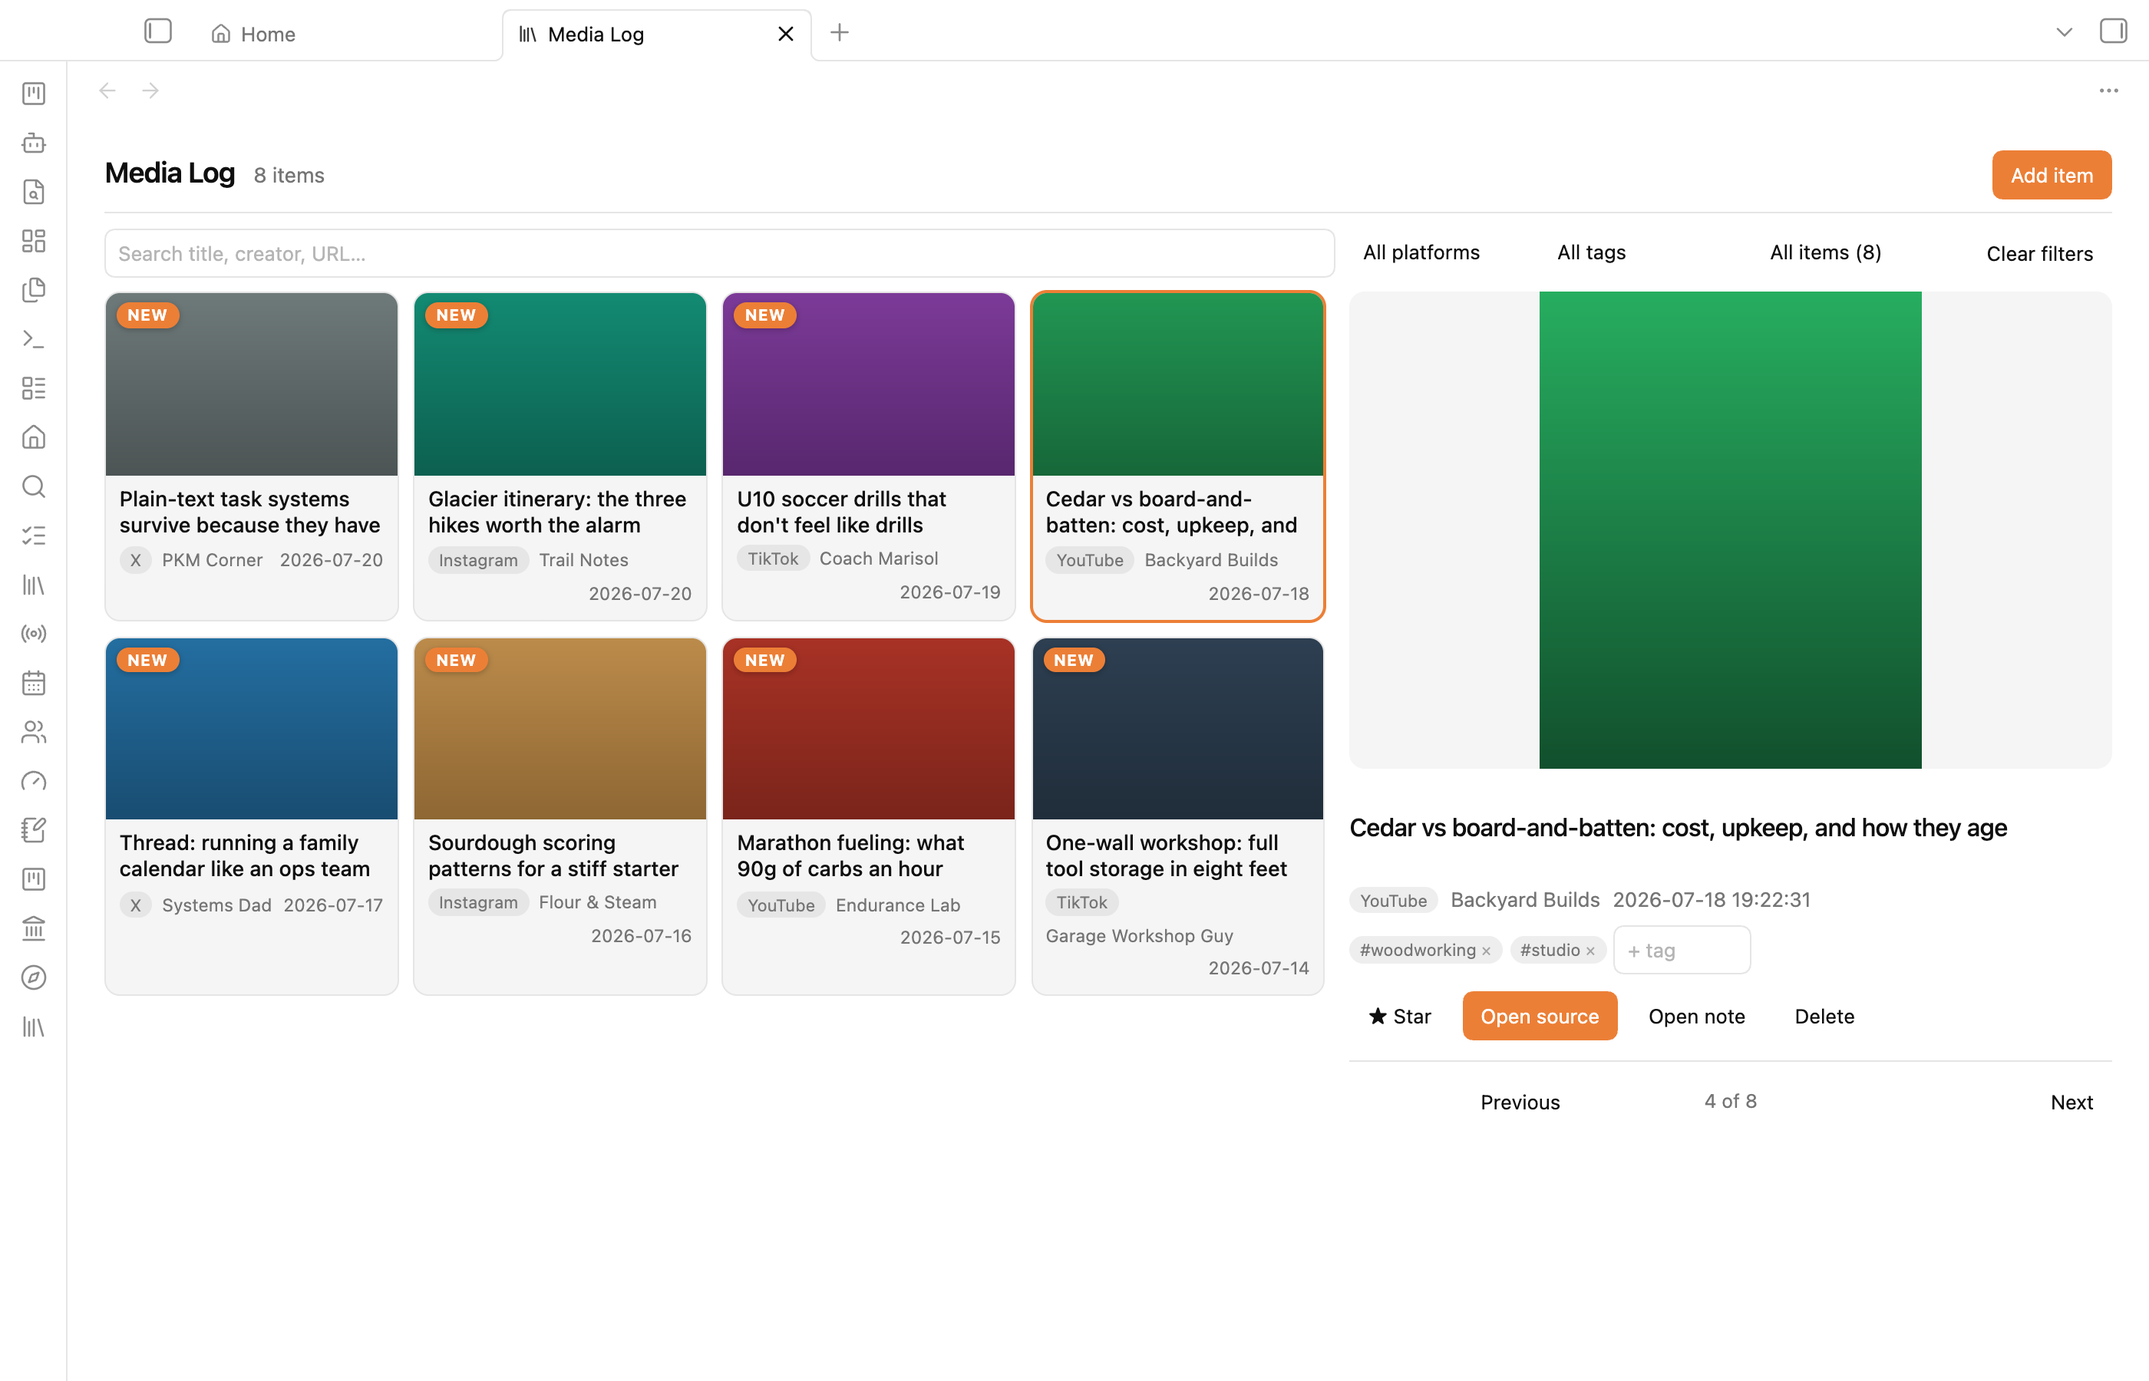
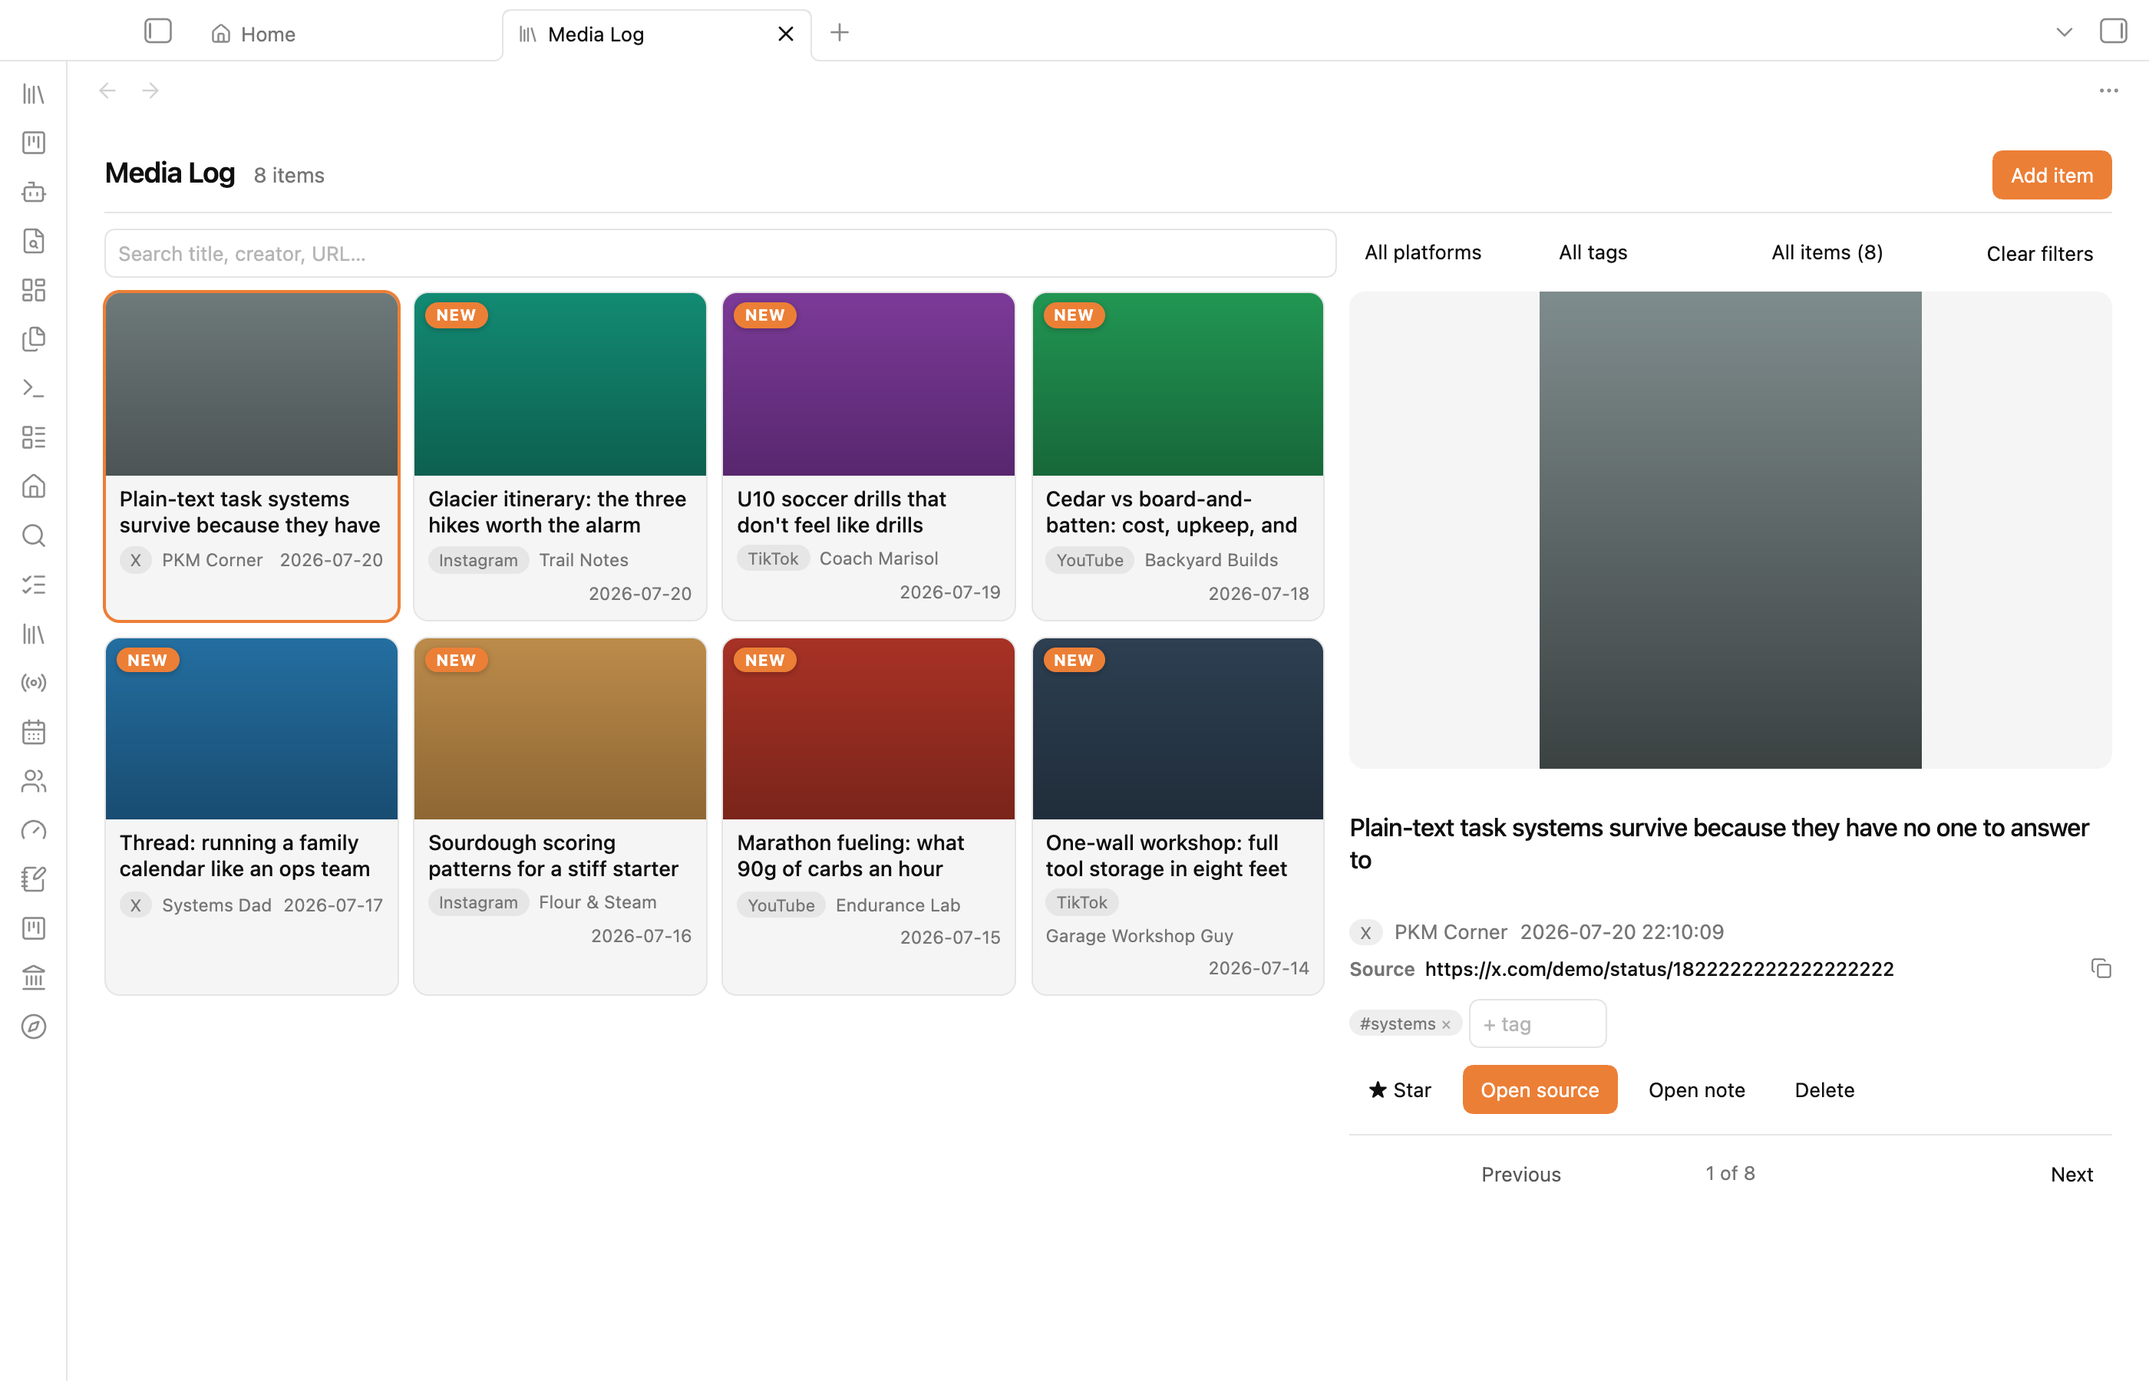
Media Log 1.4.0: copyable gallery text and links

diff --git a/main.js b/main.js
@@ -6,6 +6,7 @@ var {
   Setting,
   Modal,
   Notice,
+  setIcon,
   requestUrl,
   normalizePath
 } = require("obsidian");
@@ -80,6 +81,12 @@ function extractMeta(html) {
   ]);
   return meta;
 }
+function hasTextSelectionWithin(element) {
+  const selection = typeof window !== "undefined" && window.getSelection ? window.getSelection() : null;
+  if (!selection || selection.isCollapsed || !selection.toString().trim()) return false;
+  const node = selection.anchorNode || selection.focusNode;
+  return Boolean(node && element.contains(node));
+}
 module.exports = class MediaLogPlugin extends Plugin {
   async onload() {
     await this.loadSettings();
@@ -135,6 +142,7 @@ module.exports = class MediaLogPlugin extends Plugin {
         title: fm.title || file.basename,
         creator: fm.creator || "",
         sourceUrl: fm.source_url || "",
+        canonicalUrl: fm.canonical_url || "",
         capturedAt,
         sortKey,
         screenshot: fm.screenshot || "",
@@ -345,7 +353,10 @@ var LibraryView = class extends ItemView {
       return;
     }
     for (const item of list.slice(0, 200)) {
-      const card = grid.createDiv({ cls: ["mlog-card", this.selected?.id === item.id ? "mlog-card--selected" : ""] });
+      const card = grid.createDiv({
+        cls: ["mlog-card", this.selected?.id === item.id ? "mlog-card--selected" : ""],
+        attr: { role: "button", tabindex: "0" }
+      });
       const thumb = card.createDiv({ cls: "mlog-card__thumb" });
       const shot = item.screenshot && this.app.vault.getAbstractFileByPath(item.screenshot);
       if (shot) {
@@ -361,7 +372,16 @@ var LibraryView = class extends ItemView {
       metaRow.createSpan({ cls: "mlog-chip", text: item.platform });
       if (item.creator) metaRow.createSpan({ text: item.creator });
       metaRow.createSpan({ cls: "mlog-card__date", text: String(item.capturedAt).slice(0, 10) });
-      card.addEventListener("click", () => this.selectItem(item));
+      const activate = () => this.selectItem(item);
+      card.addEventListener("click", () => {
+        if (hasTextSelectionWithin(card)) return;
+        activate();
+      });
+      card.addEventListener("keydown", (event) => {
+        if (event.target !== card || event.key !== "Enter" && event.key !== " ") return;
+        event.preventDefault();
+        activate();
+      });
     }
     if (list.length > 200) {
       grid.createDiv({ cls: "mlog__empty-sub", text: `Showing 200 of ${list.length} \u2014 narrow the filters.` });
@@ -381,6 +401,9 @@ var LibraryView = class extends ItemView {
     meta.createSpan({ cls: "mlog-chip", text: item.platform });
     if (item.creator) meta.createSpan({ text: item.creator });
     if (item.capturedAt) meta.createSpan({ text: item.capturedAt });
+    const links = d.createDiv({ cls: "mlog-detail__links" });
+    this.renderCopyableLink(links, "Source", item.sourceUrl);
+    if (item.canonicalUrl) this.renderCopyableLink(links, "Canonical", item.canonicalUrl);
     const tagWrap = d.createDiv({ cls: "mlog-detail__tags" });
     const renderTags = () => {
       tagWrap.empty();
@@ -443,6 +466,31 @@ var LibraryView = class extends ItemView {
     const next = nav.createEl("button", { text: "Next" });
     next.disabled = completedUnwatchedItem ? visible.length === 0 : index < 0 || index >= visible.length - 1;
     next.addEventListener("click", () => this.selectItem(completedUnwatchedItem ? visible[0] : visible[index + 1]));
+  }
+  renderCopyableLink(container, label, value) {
+    if (!value) return;
+    const row = container.createDiv({ cls: "mlog-detail__link" });
+    row.createSpan({ cls: "mlog-detail__link-label", text: label });
+    row.createEl("strong", { text: value });
+    const copy = row.createSpan({
+      cls: "mlog-detail__copy",
+      attr: { role: "button", tabindex: "0", "aria-label": `Copy ${label.toLowerCase()} link` }
+    });
+    setIcon(copy, "copy");
+    const doCopy = async () => {
+      try {
+        await navigator.clipboard.writeText(value);
+        new Notice(`${label} link copied`);
+      } catch (error) {
+        new Notice(`Copy failed: ${error.message || error}`);
+      }
+    };
+    copy.addEventListener("click", doCopy);
+    copy.addEventListener("keydown", (event) => {
+      if (event.key !== "Enter" && event.key !== " ") return;
+      event.preventDefault();
+      doCopy();
+    });
   }
   renderMedia(container, item) {
     const shot = item.screenshot && this.app.vault.getAbstractFileByPath(item.screenshot);

diff --git a/src/main.js b/src/main.js
@@ -10,6 +10,7 @@ const {
   Setting,
   Modal,
   Notice,
+  setIcon,
   requestUrl,
   normalizePath,
 } = require("obsidian");
@@ -104,6 +105,13 @@ function extractMeta(html) {
   return meta;
 }
 
+function hasTextSelectionWithin(element) {
+  const selection = typeof window !== "undefined" && window.getSelection ? window.getSelection() : null;
+  if (!selection || selection.isCollapsed || !selection.toString().trim()) return false;
+  const node = selection.anchorNode || selection.focusNode;
+  return Boolean(node && element.contains(node));
+}
+
 module.exports = class MediaLogPlugin extends Plugin {
   async onload() {
     await this.loadSettings();
@@ -168,6 +176,7 @@ module.exports = class MediaLogPlugin extends Plugin {
         title: fm.title || file.basename,
         creator: fm.creator || "",
         sourceUrl: fm.source_url || "",
+        canonicalUrl: fm.canonical_url || "",
         capturedAt,
         sortKey,
         screenshot: fm.screenshot || "",
@@ -396,7 +405,10 @@ class LibraryView extends ItemView {
       return;
     }
     for (const item of list.slice(0, 200)) {
-      const card = grid.createDiv({ cls: ["mlog-card", this.selected?.id === item.id ? "mlog-card--selected" : ""] });
+      const card = grid.createDiv({
+        cls: ["mlog-card", this.selected?.id === item.id ? "mlog-card--selected" : ""],
+        attr: { role: "button", tabindex: "0" },
+      });
       const thumb = card.createDiv({ cls: "mlog-card__thumb" });
       const shot = item.screenshot && this.app.vault.getAbstractFileByPath(item.screenshot);
       if (shot) {
@@ -412,7 +424,16 @@ class LibraryView extends ItemView {
       metaRow.createSpan({ cls: "mlog-chip", text: item.platform });
       if (item.creator) metaRow.createSpan({ text: item.creator });
       metaRow.createSpan({ cls: "mlog-card__date", text: String(item.capturedAt).slice(0, 10) });
-      card.addEventListener("click", () => this.selectItem(item));
+      const activate = () => this.selectItem(item);
+      card.addEventListener("click", () => {
+        if (hasTextSelectionWithin(card)) return;
+        activate();
+      });
+      card.addEventListener("keydown", (event) => {
+        if (event.target !== card || (event.key !== "Enter" && event.key !== " ")) return;
+        event.preventDefault();
+        activate();
+      });
     }
     if (list.length > 200) {
       grid.createDiv({ cls: "mlog__empty-sub", text: `Showing 200 of ${list.length} — narrow the filters.` });
@@ -433,6 +454,10 @@ class LibraryView extends ItemView {
     meta.createSpan({ cls: "mlog-chip", text: item.platform });
     if (item.creator) meta.createSpan({ text: item.creator });
     if (item.capturedAt) meta.createSpan({ text: item.capturedAt });
+
+    const links = d.createDiv({ cls: "mlog-detail__links" });
+    this.renderCopyableLink(links, "Source", item.sourceUrl);
+    if (item.canonicalUrl) this.renderCopyableLink(links, "Canonical", item.canonicalUrl);
 
     // Tags (editable)
     const tagWrap = d.createDiv({ cls: "mlog-detail__tags" });
@@ -502,6 +527,32 @@ class LibraryView extends ItemView {
     const next = nav.createEl("button", { text: "Next" });
     next.disabled = completedUnwatchedItem ? visible.length === 0 : index < 0 || index >= visible.length - 1;
     next.addEventListener("click", () => this.selectItem(completedUnwatchedItem ? visible[0] : visible[index + 1]));
+  }
+
+  renderCopyableLink(container, label, value) {
+    if (!value) return;
+    const row = container.createDiv({ cls: "mlog-detail__link" });
+    row.createSpan({ cls: "mlog-detail__link-label", text: label });
+    row.createEl("strong", { text: value });
+    const copy = row.createSpan({
+      cls: "mlog-detail__copy",
+      attr: { role: "button", tabindex: "0", "aria-label": `Copy ${label.toLowerCase()} link` },
+    });
+    setIcon(copy, "copy");
+    const doCopy = async () => {
+      try {
+        await navigator.clipboard.writeText(value);
+        new Notice(`${label} link copied`);
+      } catch (error) {
+        new Notice(`Copy failed: ${error.message || error}`);
+      }
+    };
+    copy.addEventListener("click", doCopy);
+    copy.addEventListener("keydown", (event) => {
+      if (event.key !== "Enter" && event.key !== " ") return;
+      event.preventDefault();
+      doCopy();
+    });
   }
 
   renderMedia(container, item) {

diff --git a/styles.css b/styles.css
@@ -29,6 +29,7 @@
   background: var(--background-secondary);
   cursor: pointer;
 }
+.mlog-card:focus-visible { outline: none; box-shadow: 0 0 0 2px var(--background-modifier-border-focus); }
 .mlog-card--selected { border-color: var(--interactive-accent); box-shadow: 0 0 0 1px var(--interactive-accent); }
 .mlog-card__thumb { aspect-ratio: 16/10; background: var(--background-modifier-hover); display: flex; align-items: center; justify-content: center; position: relative; }
 .mlog-card__thumb img { width: 100%; height: 100%; object-fit: cover; }
@@ -37,6 +38,14 @@
 .mlog-card__title { font-size: 0.85rem; font-weight: 500; line-height: 1.25; max-height: 2.6em; overflow: hidden; overflow-wrap: anywhere; }
 .mlog-card__meta { display: flex; gap: 0.4rem; flex-wrap: wrap; align-items: baseline; margin-top: 4px; font-size: 0.72rem; color: var(--text-muted); }
 .mlog-card__date { margin-left: auto; }
+.mlog-card__title,
+.mlog-card__meta,
+.mlog-detail__link strong,
+.mlog__detail h3 {
+  -webkit-user-select: text;
+  user-select: text;
+  cursor: text;
+}
 .mlog-card__star,
 .mlog-card__unwatched { position: absolute; top: 6px; border-radius: 999px; line-height: 1.6; box-shadow: 0 1px 4px rgb(0 0 0 / 0.24); }
 .mlog-card__star { right: 7px; color: var(--color-yellow); background: var(--background-primary); padding: 0 6px; }
@@ -56,6 +65,14 @@
 
 .mlog-detail__media { display: block; width: 100%; aspect-ratio: 16/10; border: 0; border-radius: 10px; background: var(--background-secondary); object-fit: contain; }
 .mlog-detail__meta { display: flex; gap: 0.5rem; flex-wrap: wrap; color: var(--text-muted); font-size: 0.82rem; margin-bottom: 0.5rem; }
+.mlog-detail__links { display: grid; gap: 0.35rem; margin: 0 0 0.65rem; }
+.mlog-detail__link { display: grid; grid-template-columns: auto minmax(0, 1fr) auto; gap: 0.4rem; align-items: start; color: var(--text-muted); font-size: 0.78rem; }
+.mlog-detail__link-label { font-weight: 600; }
+.mlog-detail__link strong { color: var(--text-normal); overflow-wrap: anywhere; font-weight: 500; }
+.mlog-detail__copy { display: inline-flex; align-items: center; color: var(--text-muted); cursor: pointer; }
+.mlog-detail__copy:hover,
+.mlog-detail__copy:focus-visible { color: var(--text-normal); }
+.mlog-detail__copy svg { width: 14px; height: 14px; }
 .mlog-detail__tags { display: flex; gap: 0.3rem; flex-wrap: wrap; align-items: center; margin: 0.4rem 0 0.7rem; }
 .mlog-detail__taginput { width: 90px; font-size: 0.75rem; padding: 1px 6px; }
 .mlog-detail__actions { display: flex; gap: 0.5rem; flex-wrap: wrap; }

diff --git a/GUIDE.md b/GUIDE.md
@@ -1,6 +1,6 @@
 # Media Log — the guide
 
-This walkthrough is for two readers at once: a person setting up Media Log in an Obsidian vault, and an AI agent that has been pointed at this repository and asked to install, configure, or extend it. Everything here describes version 1.2.0.
+This walkthrough is for two readers at once: a person setting up Media Log in an Obsidian vault, and an AI agent that has been pointed at this repository and asked to install, configure, or extend it. Everything here describes version 1.4.0.
 
 ## How it works
 
@@ -54,11 +54,11 @@ Add `&autosave=false` to review the form before writing. Add `&vault=<encoded va
 
 ### Review a collection
 
-Use the platform, tag, watched, and starred filters to define the current set. Opening an item marks it watched; Star keeps it visible as a keeper. Previous and Next stay inside the filtered set, so a queue can be processed without returning to the grid after every item.
+Use the platform, tag, watched, and starred filters to define the current set. Opening an item marks it watched; Star keeps it visible as a keeper. Previous and Next stay inside the filtered set, so a queue can be processed without returning to the grid after every item. Card titles and metadata can be drag-selected without opening the item. In detail, Source and optional Canonical URLs remain selectable and also have one-tap copy controls.
 
 ### Feed Media Log from an agent or runner
 
-Write one Markdown file per item into the configured Items folder. The required interoperability fields are `media_id`, `platform`, `source_url`, `captured_at`, `creator`, `title`, and `status`. Optional `screenshot`, `video`, `embed_url`, `tags`, `watched`, and `starred` fields progressively enhance the Library. [RUNNER.md](RUNNER.md) gives a self-hosted companion-runner recipe while keeping private capture infrastructure out of this public repository.
+Write one Markdown file per item into the configured Items folder. The required interoperability fields are `media_id`, `platform`, `source_url`, `captured_at`, `creator`, `title`, and `status`. Optional `canonical_url`, `screenshot`, `video`, `embed_url`, `tags`, `watched`, and `starred` fields progressively enhance the Library. [RUNNER.md](RUNNER.md) gives a self-hosted companion-runner recipe while keeping private capture infrastructure out of this public repository.
 
 ### Leave cleanly
 

diff --git a/README.md b/README.md
@@ -17,9 +17,9 @@ Select a card to review its media, metadata, tags, source, and neighboring items
 ## How it works
 
 - **Add item** (button or command palette → *Media Log: Add media item from URL*): paste a URL. The plugin fetches the page title, site name, description, and preview image, detects the platform (YouTube, X, TikTok, Instagram, Reddit, or generic web), and writes one item note into your items folder.
-- **Library** (ribbon icon, command palette, or `obsidian://media-log`): browse items newest-first. Filter by platform, tag, or review state; search titles/creators/URLs; click a card for the detail pane.
+- **Library** (ribbon icon, command palette, or `obsidian://media-log`): browse items newest-first. Filter by platform, tag, or review state; search titles/creators/URLs; click a card for the detail pane. Card titles and metadata remain selectable for copying; drag-selecting text does not open the item.
 - **Review loop**: opening an item records `watched: true`; star keepers with one tap; work through the current filtered set with Previous/Next. All review state stays in the item's frontmatter.
-- **Detail pane**: plays runner-provided local `video` files or HTTPS `embed_url` media, falls back to the preview image, edits tags, and provides source/note/reversible-delete actions.
+- **Detail pane**: plays runner-provided local `video` files or HTTPS `embed_url` media, falls back to the preview image, edits tags, shows selectable Source and Canonical URLs with one-tap copy controls, and provides source/note/reversible-delete actions.
 
 ## Item format
 
@@ -28,6 +28,7 @@ Select a card to review its media, metadata, tags, source, and neighboring items
 media_id: "ml-20260708-213000-youtube-how-to-sharpen-a-chisel"
 platform: "YouTube"
 source_url: "https://www.youtube.com/watch?v=…"
+canonical_url: "https://www.youtube.com/watch?v=…" # optional normalized destination
 captured_at: "2026-07-08 21:30:00"
 creator: "YouTube"
 title: "How to sharpen a chisel"

diff --git a/CHANGELOG.md b/CHANGELOG.md
@@ -1,5 +1,12 @@
 # Changelog
 
+## 1.4.0 — 2026-09-04
+
+- Made gallery titles and metadata selectable without opening the item during a drag-to-copy gesture.
+- Preserved full keyboard activation for gallery cards with Enter and Space.
+- Added selectable Source and Canonical URL rows in item detail.
+- Added one-tap, keyboard-accessible copy controls for Source and Canonical URLs.
+
 ## 1.2.0 — 2026-08-07
 
 - Added durable watched and starred review state in item frontmatter.
